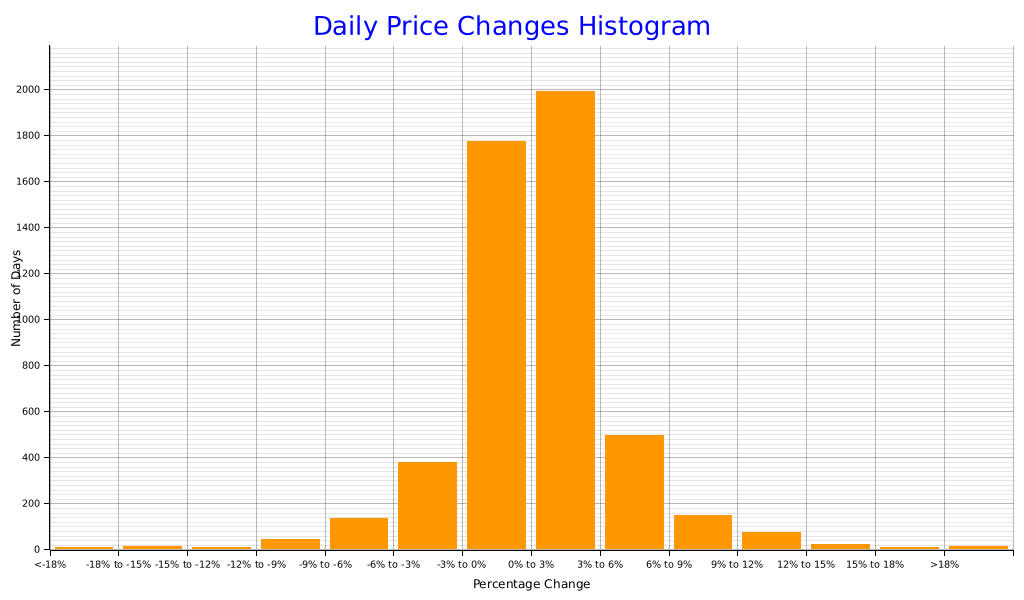
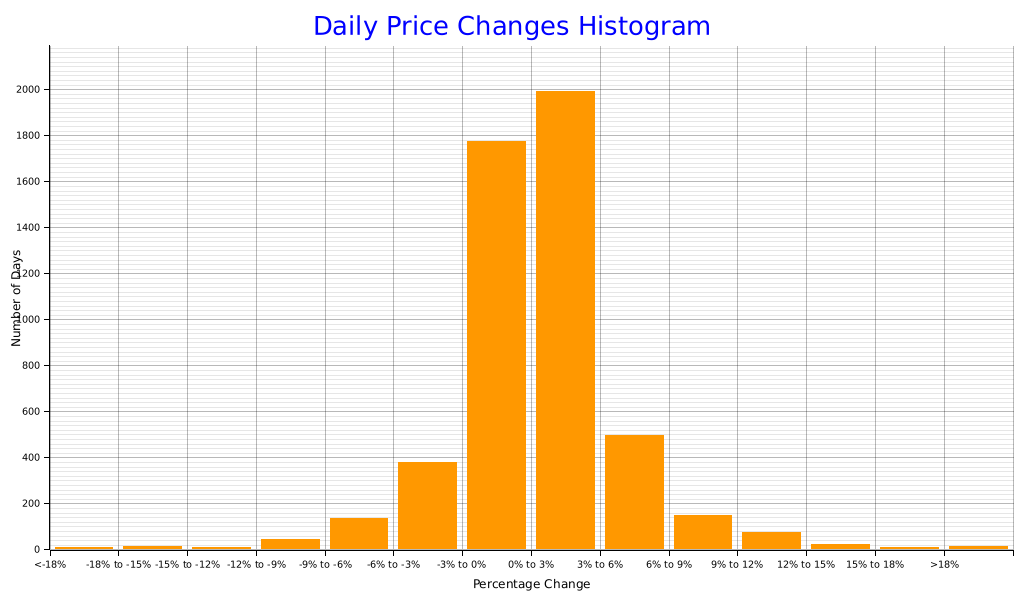
deploy: fbebbab4ab64577eb9c05b16167055638fc15f9a

diff --git a/index.html b/index.html
@@ -34,7 +34,7 @@
           <td>126,198.07</td>
           <td>74,436.67</td>
           <td></td>
-          <td>19,033,101,434,880.0</td>
+          <td>19,032,656,838,656.0</td>
         </tr>
         <tr>
           <td class='yearly-summary-year'>2024</td>
@@ -186,11 +186,11 @@
         </tr>
         <tr>
           <td>-3% to 0%</td>
-          <td>1774</td>
+          <td>1775</td>
         </tr>
         <tr>
           <td>0% to 3%</td>
-          <td>1992</td>
+          <td>1991</td>
         </tr>
         <tr>
           <td>3% to 6%</td>
@@ -227,7 +227,7 @@
     <br><br>
     <a href='https://github.com/bitcoin-tools/btracker'>Link to the report codebase</a>
     <br><br>
-    This report was last updated at 2025-12-20 13:55:14.247885527 UTC.
+    This report was last updated at 2025-12-20 14:20:09.125185022 UTC.
     <br><br>
     <div class='scrollable-table'>
       <table>
@@ -251,12 +251,12 @@
             <td>88,098.40</td>
             <td>88,484.95</td>
             <td>87,952.78</td>
-            <td>88,200.22</td>
-            <td class='wma-column'>56,453.73</td>
-            <td>34.35 (0.06 %)</td>
-            <td>48,078.07 (119.8 %)</td>
+            <td>88,064.63</td>
+            <td class='wma-column'>56,453.62</td>
+            <td>34.25 (0.06 %)</td>
+            <td>47,942.47 (119.4 %)</td>
             <td>532.17 (0.6 %)</td>
-            <td>96.84 (0.1 %)</td>
+            <td>-38.75 (0.0 %)</td>
           </tr>
           <tr>
             <td>2025-12-19</td>
